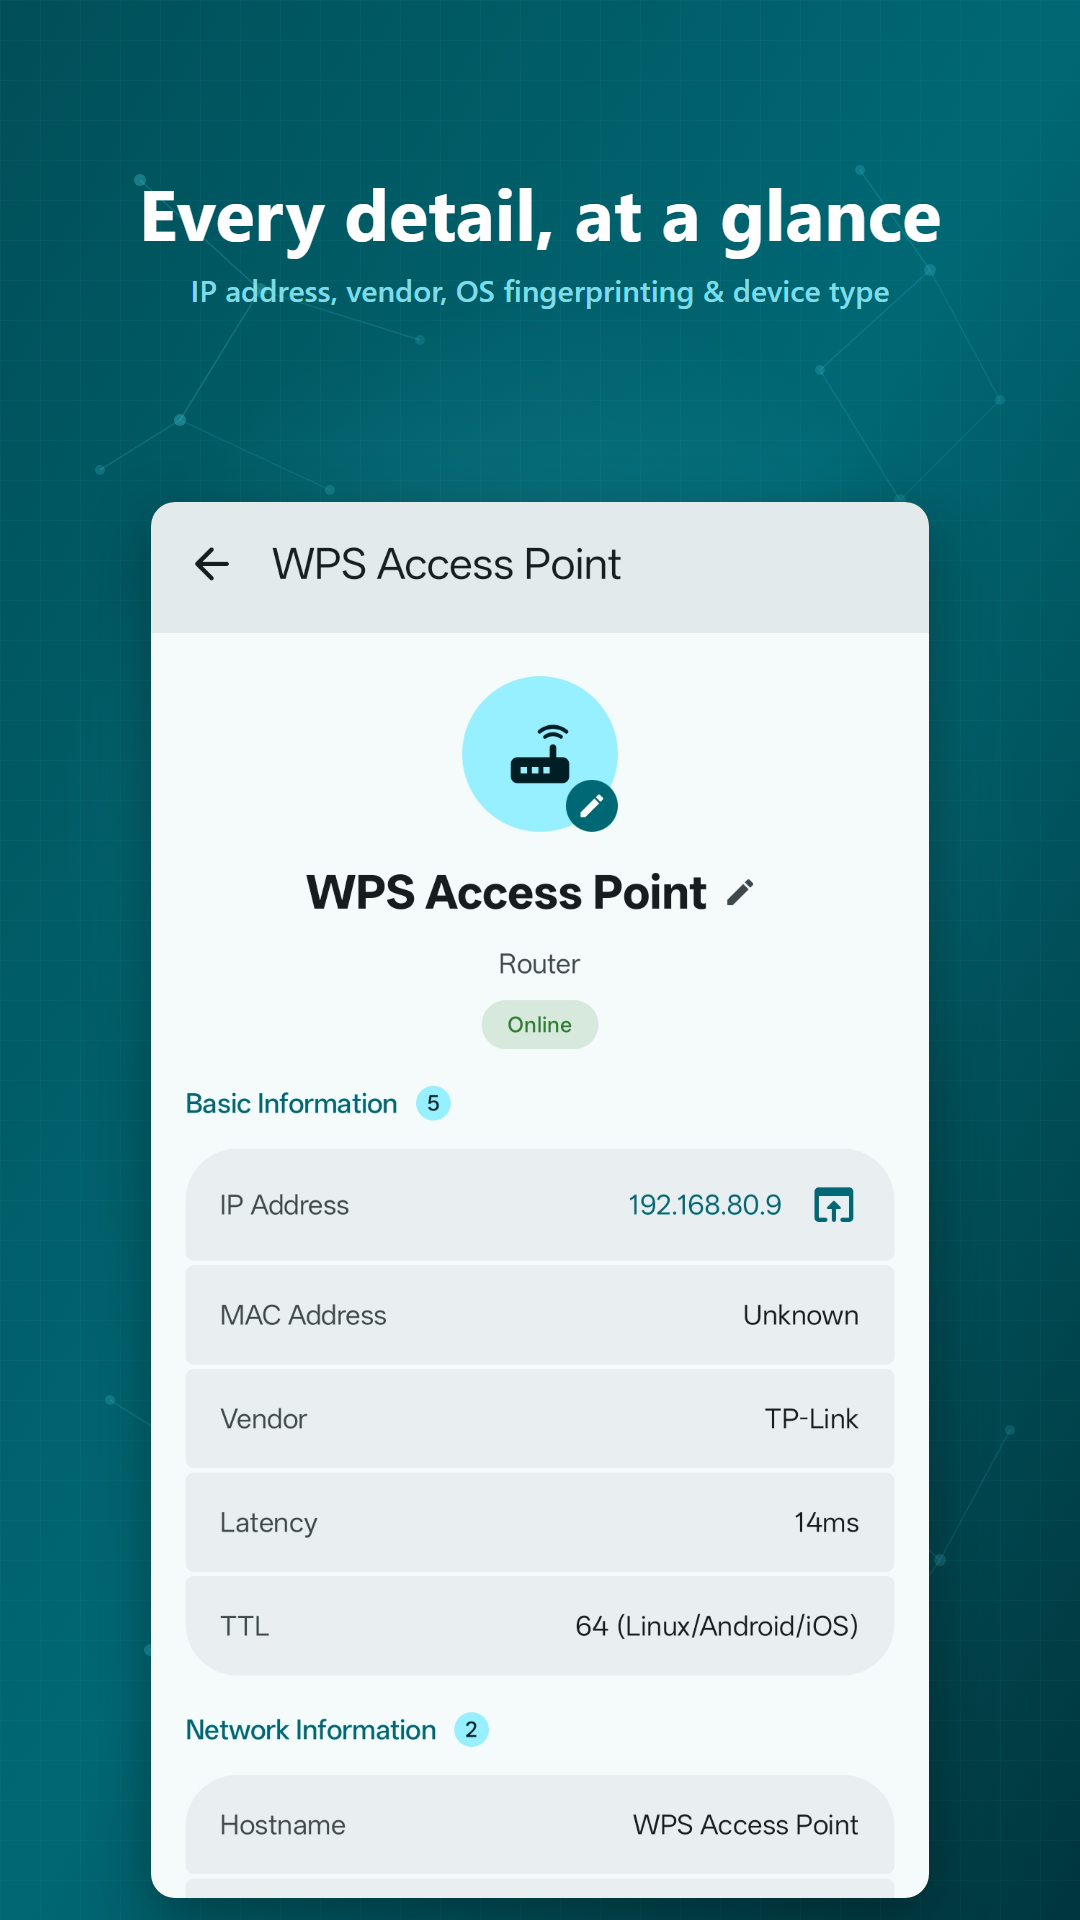
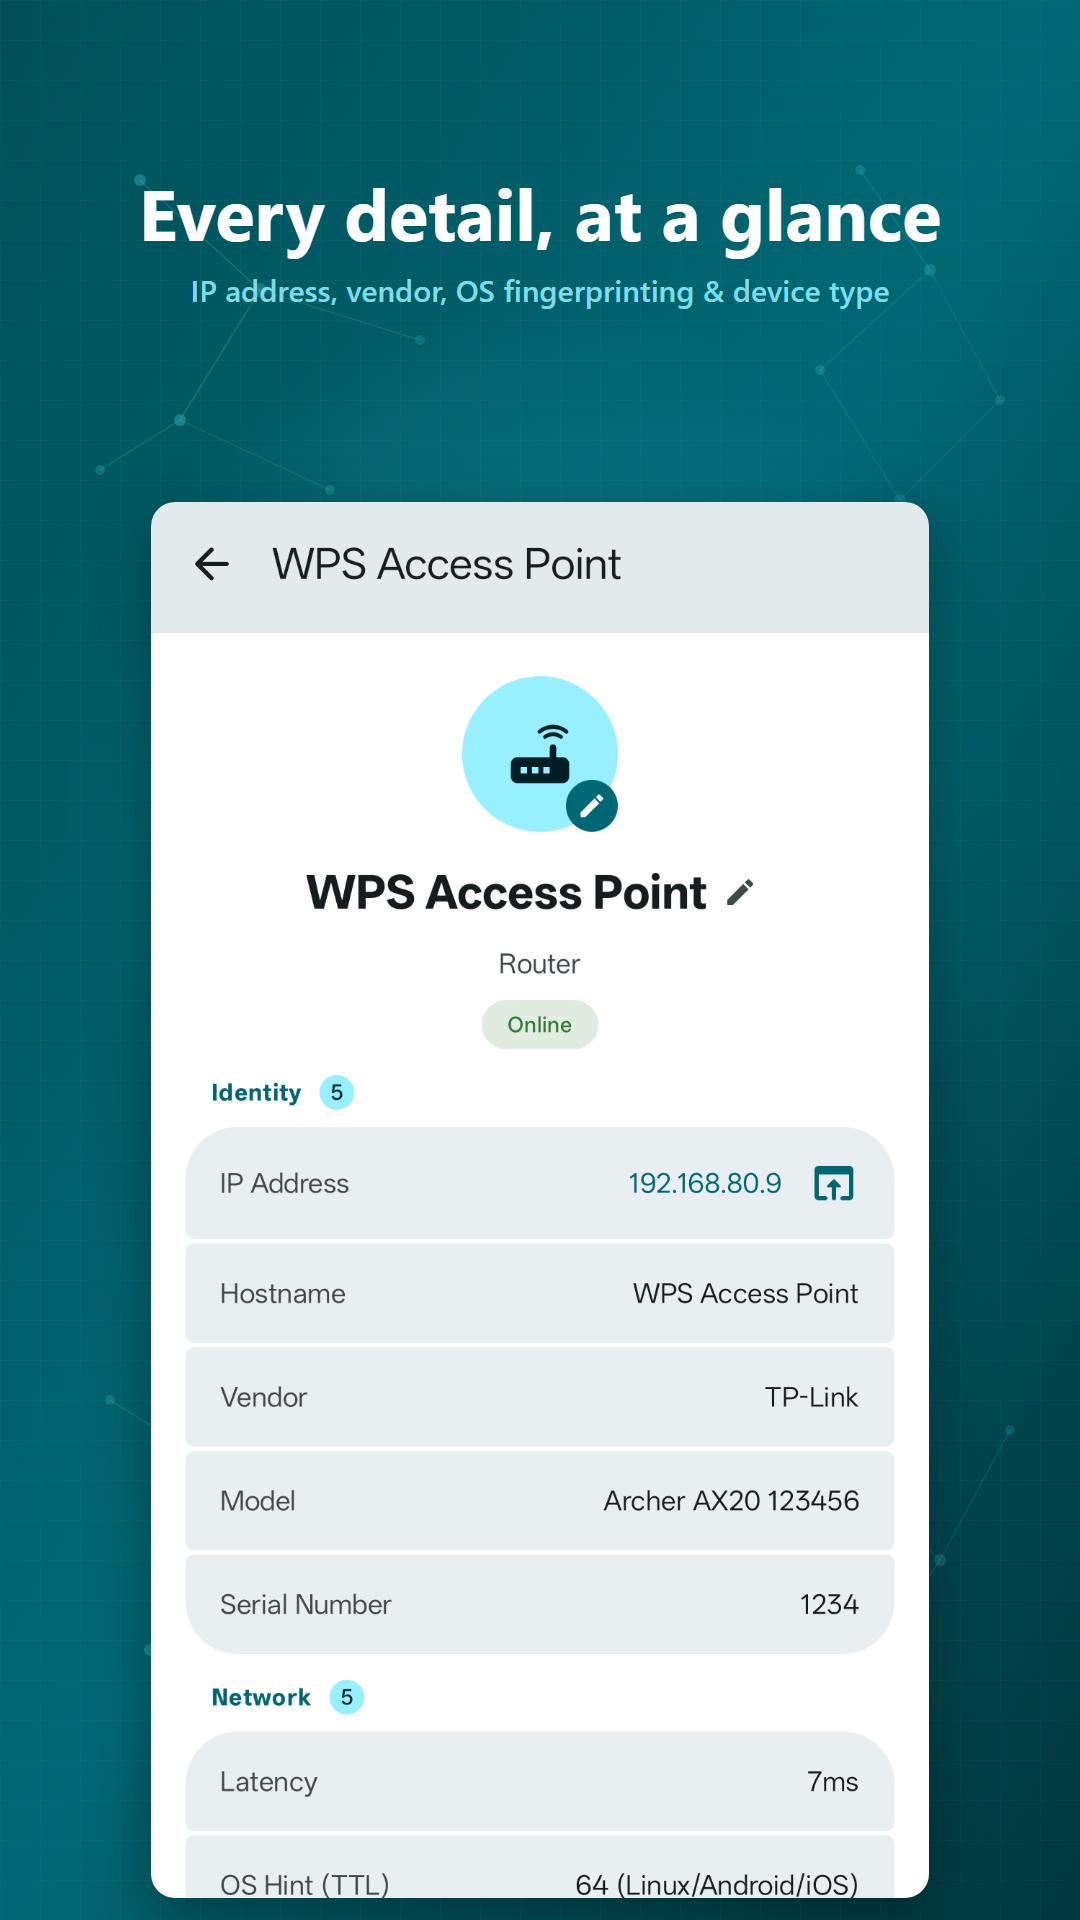
chore(release): v1.1.10 (#89)
* chore(release): v1.1.10

* docs: tighten README and rewrite store listing for search

Trim the README to the sections a visitor needs, fix outdated build and
MAC details, and align its intro with the store copy. Shorten both store
descriptions, add the new detail features, correct the local network
permission to Android 16, and localize the zh-CN title.

* docs(store-listing): keep brand name in zh-CN title

diff --git a/README.md b/README.md
@@ -1,23 +1,21 @@
 <div align="center">
 
-<img src="assets/icon_readme.png" width="160" height="160">
+<img src="assets/icon_readme.png" width="160" height="160" alt="Network Scanner icon">
 
 # Network Scanner
 
-### A fast, privacy-focused network scanner for Android
+A fast, privacy-focused network scanner for Android
 
 <p align="center">
   <a href="https://github.com/usamaiqb/network-scanner/actions/workflows/ci.yml"><img src="https://github.com/usamaiqb/network-scanner/actions/workflows/ci.yml/badge.svg" alt="CI" /></a>
   <a href="https://github.com/usamaiqb/network-scanner/releases"><img src="https://img.shields.io/github/downloads/usamaiqb/network-scanner/total?logo=github&logoColor=white&label=Downloads" alt="Downloads" /></a>
   <a href="https://f-droid.org/packages/com.networkscanner.app/"><img src="https://img.shields.io/f-droid/v/com.networkscanner.app?logo=fdroid&logoColor=white&label=F-Droid" alt="F-Droid" /></a>
-  <img src="https://img.shields.io/badge/platform-Android-3DDC84?logo=android&logoColor=white" alt="Platform" />
-  <img src="https://img.shields.io/badge/Jetpack%20Compose-Material%203-4285F4?logo=jetpackcompose&logoColor=white" alt="Jetpack Compose" />
   <a href="https://www.gnu.org/licenses/gpl-3.0"><img src="https://img.shields.io/badge/License-GPLv3-blue.svg" alt="License: GPL v3" /></a>
 </p>
 
 </div>
 
-Discover and analyze devices on your local network with no ads, no tracking, and no internet required.
+Find every device on your local network, with its IP address, hostname, open ports, and device type. No ads, no tracking, no root required, and it works fully offline.
 
 <p align="center">
   <a href="https://play.google.com/store/apps/details?id=com.networkscanner.app"><img src="https://play.google.com/intl/en_us/badges/static/images/badges/en_badge_web_generic.png" alt="Get it on Google Play" height="80" /></a>
@@ -39,35 +37,28 @@ Download the latest APK from the [Releases](https://github.com/usamaiqb/network-
 
 ## Features
 
-### Device Discovery
-- 🔍 **Ping Sweep** - Parallel ICMP ping sweep with TCP fallback for devices that block ICMP (e.g. Windows with firewall)
-- 📋 **ARP Cache** - Reads the ARP table to pick up devices without sending any traffic
-- 📡 **mDNS / Bonjour** - Discovers services like AirPlay, Chromecast, printers, SSH, SMB, HomeKit, and more
-- 📺 **SSDP / UPnP** - Finds UPnP devices and fetches their full description (friendly name, manufacturer, model number)
-- 🪟 **NetBIOS** - Resolves hostnames and workgroups for Windows and Samba devices
-- 🔌 **Port Heuristics** - Identifies Cast-enabled TVs and other devices via targeted port probes when other methods come up empty
+### Discovery
 
-### Device Information
-- 🏷 **MAC Address & Vendor** - Shows MAC address with OUI vendor lookup, including detection of randomized (private) MAC addresses¹
-- 🖥 **OS Fingerprinting** - Detects Windows, Linux, macOS, router firmware, and printer OS from open ports and banners
-- 📱 **Device Type Icons** - Automatically identifies smartphones, laptops, desktops, TVs, routers, printers, NAS, and more
-- 🔓 **Deep Port Scan** - Scans common ports, grabs service banners, and extracts software versions
-- 🧩 **Full Port Scan** - Optional sweep of all 65,535 ports via a fast worker pool
-- ⚙ **Configurable Ports** - Customize which ports are probed during scans
+- **Ping sweep** - Parallel ICMP sweep with TCP fallback for devices that block ICMP
+- **ARP cache** - Picks up devices without sending any traffic
+- **mDNS / Bonjour** - Finds AirPlay, Chromecast, printers, SSH, SMB, HomeKit, and more
+- **SSDP / UPnP** - Fetches friendly name, manufacturer, and model number
+- **NetBIOS** - Resolves hostnames and workgroups for Windows and Samba devices
+- **Port heuristics** - Identifies Cast-enabled TVs and similar devices when other methods come up empty
 
-### App
-- 🏷 **Custom Devices** - Rename devices and assign your own icons for easy identification
-- 📶 **Interface Selection** - Choose which network interface to scan (Wi-Fi, Ethernet, VPN)
-- 🌍 **Multilingual** - Available in multiple languages (see [Translations](#translations))
-- 🎨 **Material Design 3** - Modern interface following latest design guidelines
-- 🔒 **Privacy First** - No ads, no tracking, no analytics
-- 🚀 **Lightweight** - Minimal permissions, efficient battery usage
-- 📡 **Offline** - Works completely offline, no internet required
+### Device details
+
+- **MAC address & vendor** - OUI vendor lookup, with detection of randomized MAC addresses (see [Known limitations](#known-limitations))
+- **OS fingerprinting** - Detects Windows, Linux, macOS, router firmware, and printer OS from open ports and banners
+- **Device type icons** - Smartphones, laptops, TVs, routers, printers, NAS, and more
+- **Port scanning** - Deep scan of common ports with banner grabbing and version detection, or a full sweep of all 65,535 ports
+- **Copy & open** - Long press any detail to copy it, or tap an open web port to open it in your browser
+- **Customization** - Rename devices, assign icons, choose the network interface (Wi-Fi, Ethernet, VPN), and configure probed ports
 
 ## Requirements
 
 - Android 8.0 (Oreo) or higher
-- WiFi connection to scan local network
+- A local network connection (Wi-Fi, Ethernet, or VPN)
 
 ## Verification
 
@@ -81,49 +72,26 @@ Check it with an on-device verifier app, or `apksigner verify --print-certs <apk
 <details>
 <summary><h2>Permissions</h2></summary>
 
-Network Scanner requests only essential permissions:
-
-- **INTERNET** - For network communication
+- **INTERNET** - Required by Android to open any network socket, including local-network scans; the app never contacts the internet
 - **ACCESS_NETWORK_STATE** - To check network connectivity
-- **ACCESS_WIFI_STATE** - To get WiFi information
+- **ACCESS_WIFI_STATE** - To get Wi-Fi information
 - **CHANGE_WIFI_MULTICAST_STATE** - For network device discovery
-- **NEARBY_WIFI_DEVICES** (Android 13+) - To discover nearby WiFi devices. On Android 16+ this permission also gates local network access (sockets to local addresses, mDNS, SSDP), so scanning cannot work without it
-- **ACCESS_FINE_LOCATION** / **ACCESS_COARSE_LOCATION** - Optional. Used only to read WiFi network details such as the SSID, and never for location tracking; scanning works without it
+- **NEARBY_WIFI_DEVICES** (Android 13+) - To discover nearby Wi-Fi devices. On Android 16+ this permission also gates local network access (sockets to local addresses, mDNS, SSDP), so scanning cannot work without it
+- **ACCESS_FINE_LOCATION** / **ACCESS_COARSE_LOCATION** - Optional. Used only to read Wi-Fi network details such as the SSID, and never for location tracking; scanning works without it
 
 </details>
 
-<details>
-<summary><h2>Building from Source</h2></summary>
+## Building
 
-### Prerequisites
-- Android Studio Hedgehog (2023.1.1) or later
-- JDK 17
-- Android SDK with API level 36
+Requires JDK 17 and the Android SDK (API 36).
 
-### Build Steps
-
-1. Clone the repository:
 ```bash
 git clone https://github.com/usamaiqb/network-scanner.git
 cd network-scanner
+./gradlew assembleDebug
 ```
 
-2. Open in Android Studio or build from command line:
-```bash
-./gradlew assembleRelease
-```
-
-3. The APK will be in `app/build/outputs/apk/release/`
-
-</details>
-
-## Usage
-
-1. Open the app and grant necessary permissions
-2. Tap the scan button to discover devices
-3. Tap any device to view detailed information
-4. Use the deep scan option for port scanning, or run a full port scan for all 65,535 ports
-5. Rename devices or assign custom icons to keep track of your network
+The APK is written to `app/build/outputs/apk/debug/`. See [CONTRIBUTING.md](CONTRIBUTING.md) for the full development setup.
 
 ## Translations
 
@@ -139,55 +107,16 @@ cd network-scanner
 | 中文 (中国) | ████████████ 100% |
 <!-- translations:end -->
 
+To add or improve a translation, edit `app/src/main/res/values-<locale>/strings.xml` and open a pull request.
 
-Contributions to translations are welcome!
+## Known limitations
 
-<details>
-<summary><h2>Known Limitations</h2></summary>
-
-¹ **MAC addresses on Android 10+**: Since Android 10, apps can no longer read other devices' entries from the system's ARP table (SELinux restriction). This means MAC address and vendor lookup reliably works for your own device (and sometimes the router), but shows as "Unknown" for other devices on the network on Android 10 and above. This is an OS-level restriction that affects all network scanner apps, not a bug specific to this app, and can't be worked around without root access.
-
-</details>
+Since Android 10, apps can't read other devices' entries from the system ARP table, so MAC address and vendor only appear for your own device and sometimes the router. This affects every network scanner app and can't be bypassed without root.
 
 ## Contributing
 
-Contributions are welcome! Please read [CONTRIBUTING.md](CONTRIBUTING.md) for guidelines.
+Contributions are welcome. Read [CONTRIBUTING.md](CONTRIBUTING.md) first, and use [Issues](https://github.com/usamaiqb/network-scanner/issues) or [Discussions](https://github.com/usamaiqb/network-scanner/discussions) for bugs and questions.
 
 ## License
 
-This project is licensed under the GNU General Public License v3.0 - see the [LICENSE](LICENSE) file for details.
-
-## Privacy
-
-Network Scanner:
-- ✅ Does NOT collect any personal data
-- ✅ Does NOT require internet connection
-- ✅ Does NOT contain ads or tracking
-- ✅ Does NOT share data with third parties
-- ✅ All scanning happens locally on your device
-
-For full details, see the [Privacy Policy](PRIVACY_POLICY.md).
-
-## Support
-
-- **Issues**: [GitHub Issues](https://github.com/usamaiqb/network-scanner/issues)
-- **Discussions**: [GitHub Discussions](https://github.com/usamaiqb/network-scanner/discussions)
-
-<details>
-<summary><h2>Acknowledgments</h2></summary>
-
-Built with:
-- [Kotlin](https://kotlinlang.org/) - Modern programming language for Android
-- [AndroidX](https://developer.android.com/jetpack/androidx) - Android Jetpack libraries
-- [Material Design 3](https://m3.material.io/) - Modern design system
-- [Kotlin Coroutines](https://kotlinlang.org/docs/coroutines-overview.html) - Asynchronous programming
-
-</details>
-
-## Changelog
-
-See [CHANGELOG.md](CHANGELOG.md) for version history and changes.
-
----
-
-Made with ❤ for the open source community
+[GNU General Public License v3.0](LICENSE). See the [Privacy Policy](PRIVACY_POLICY.md) for how the app handles data.

diff --git a/CHANGELOG.md b/CHANGELOG.md
@@ -1,3 +1,18 @@
+## [1.1.10] - 2026-10-02
+
+### Added
+- Long press any Identity, Network, or port row to copy its value. Port rows copy `ip:port`, and every copyable row also has a TalkBack action (#62, #85)
+- Open web ports in the browser by tapping them, the same way the IP row works (#85)
+- The detail screen now shows the NetBIOS name and workgroup, SSDP serial number, UPnP device type, and location URL, which the scanner already collected (#83)
+
+### Improved
+- Device detail is now split into three sections: Identity, Network, and Deep Scan (#83)
+- Merged the duplicate vendor row and kept the raw port banner next to the parsed version (#83)
+- Localized the MAC "(randomized)" suffix, TTL OS hints, the fallback name for unknown port services, and the browser content description in all six supported locales (#83)
+
+### Fixed
+- Removed the MAC "Unknown" placeholder row, which was blank for most devices because Android restricts ARP access (#83)
+
 ## [1.1.9] - 2026-09-14
 
 ### Fixed

diff --git a/CONTRIBUTING.md b/CONTRIBUTING.md
@@ -41,7 +41,6 @@ Feature suggestions are welcome! Please:
 ## Development Setup
 
 ### Prerequisites
-- Android Studio Hedgehog or later
 - JDK 17
 - Git
 
